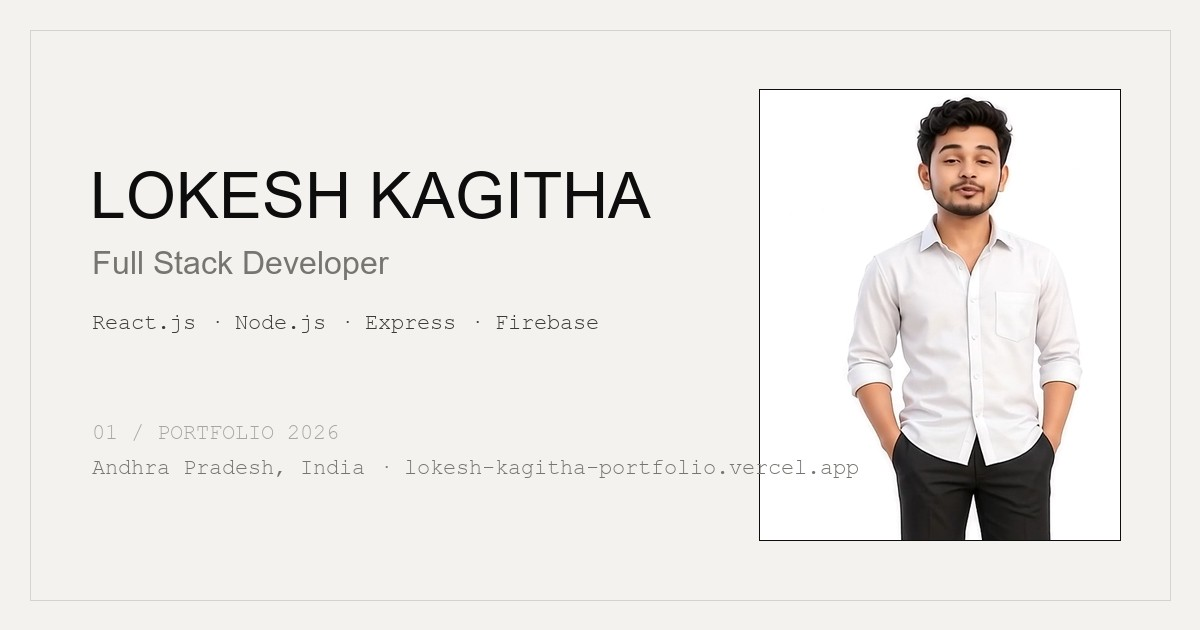
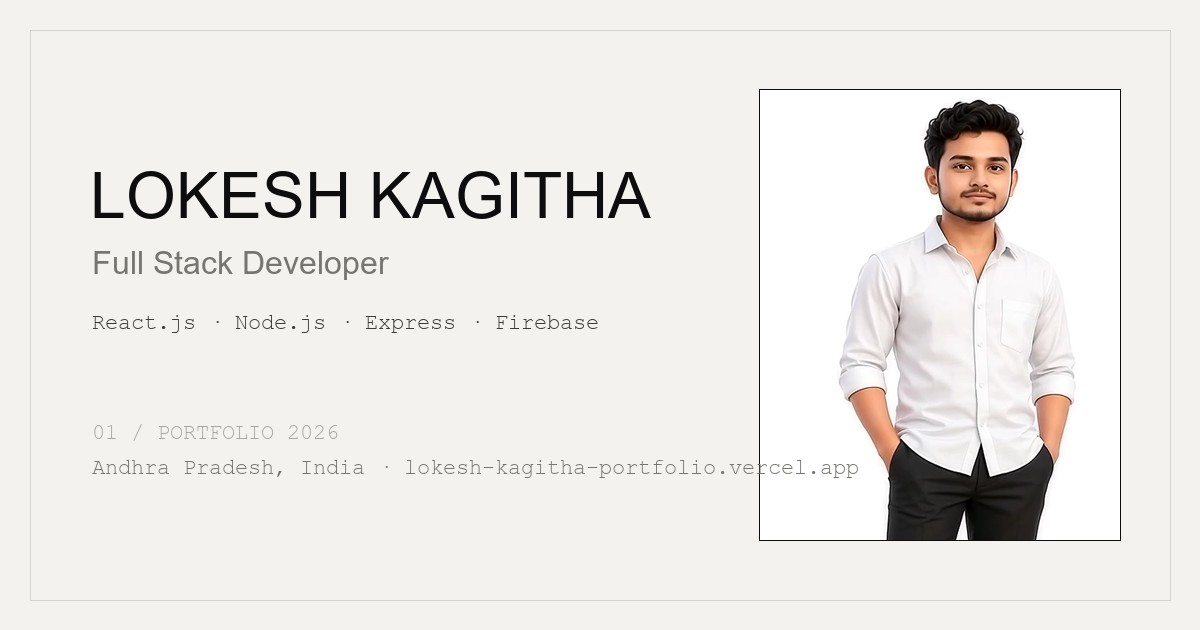
feat: add hero asset generation script and update portfolio media files

Changed region(s): [[0.6783, 0.4222, 0.8942, 0.8746], [0.74, 0.1508, 0.8633, 0.5429], [0.8017, 0.7841, 0.8325, 0.8746]]

diff --git a/scripts/build-hero-assets.py b/scripts/build-hero-assets.py
@@ -134,15 +134,15 @@ def main():
 
     # 5. Extract portrait still: head-to-shirt crop at 480x600 saved as portrait-bust.webp
     temp_frame = os.path.abspath("scratch/frame_bust.png")
-    # Take clear frame around t=2.0s
+    # Take clear, confident closed-mouth frame at t=0.05s
     bust_cmd = (
-        f'ffmpeg -y -ss 2.0 -i "{input_video}" -vframes 1 '
-        f'-vf "crop=540:675:592:10,scale=480:600,colorlevels=rimax=0.98:gimax=0.98:bimax=0.98" "{temp_frame}"'
+        f'ffmpeg -y -ss 0.05 -i "{input_video}" -vframes 1 '
+        f'-vf "crop=520:650:658:15,scale=480:600,colorlevels=rimax=0.98:gimax=0.98:bimax=0.98" "{temp_frame}"'
     )
     run_cmd(bust_cmd, "Extracting portrait still")
 
     img_bust = Image.open(temp_frame)
-    img_bust.save("public/portrait-bust.webp", "WEBP", quality=92)
+    img_bust.save("public/portrait-bust.webp", "WEBP", quality=95)
     print("--> Saved public/portrait-bust.webp (480x600)")
 
     # 6. Generate og.jpg (1200x630)

diff --git a/README.md b/README.md
@@ -72,7 +72,7 @@ python scripts/build-hero-assets.py
    - `public/hero/hero.mp4`: H.264 YUV420p (CRF 24, `-preset slow`), AAC 96 kbps, `+faststart`.
    - `public/hero/hero.webm`: VP9 (CRF 36), Opus 80 kbps.
 6. **Portrait & OG Export**:
-   - `public/portrait-bust.webp`: 480×600 head-to-shirt crop at 2.0s frame for the ID badge and avatar.
+   - `public/portrait-bust.webp`: 480×600 head-to-shirt crop at 0.05s frame for the ID badge and avatar.
    - `public/og.jpg`: 1200×630 OpenGraph social preview card.
 
 ---
